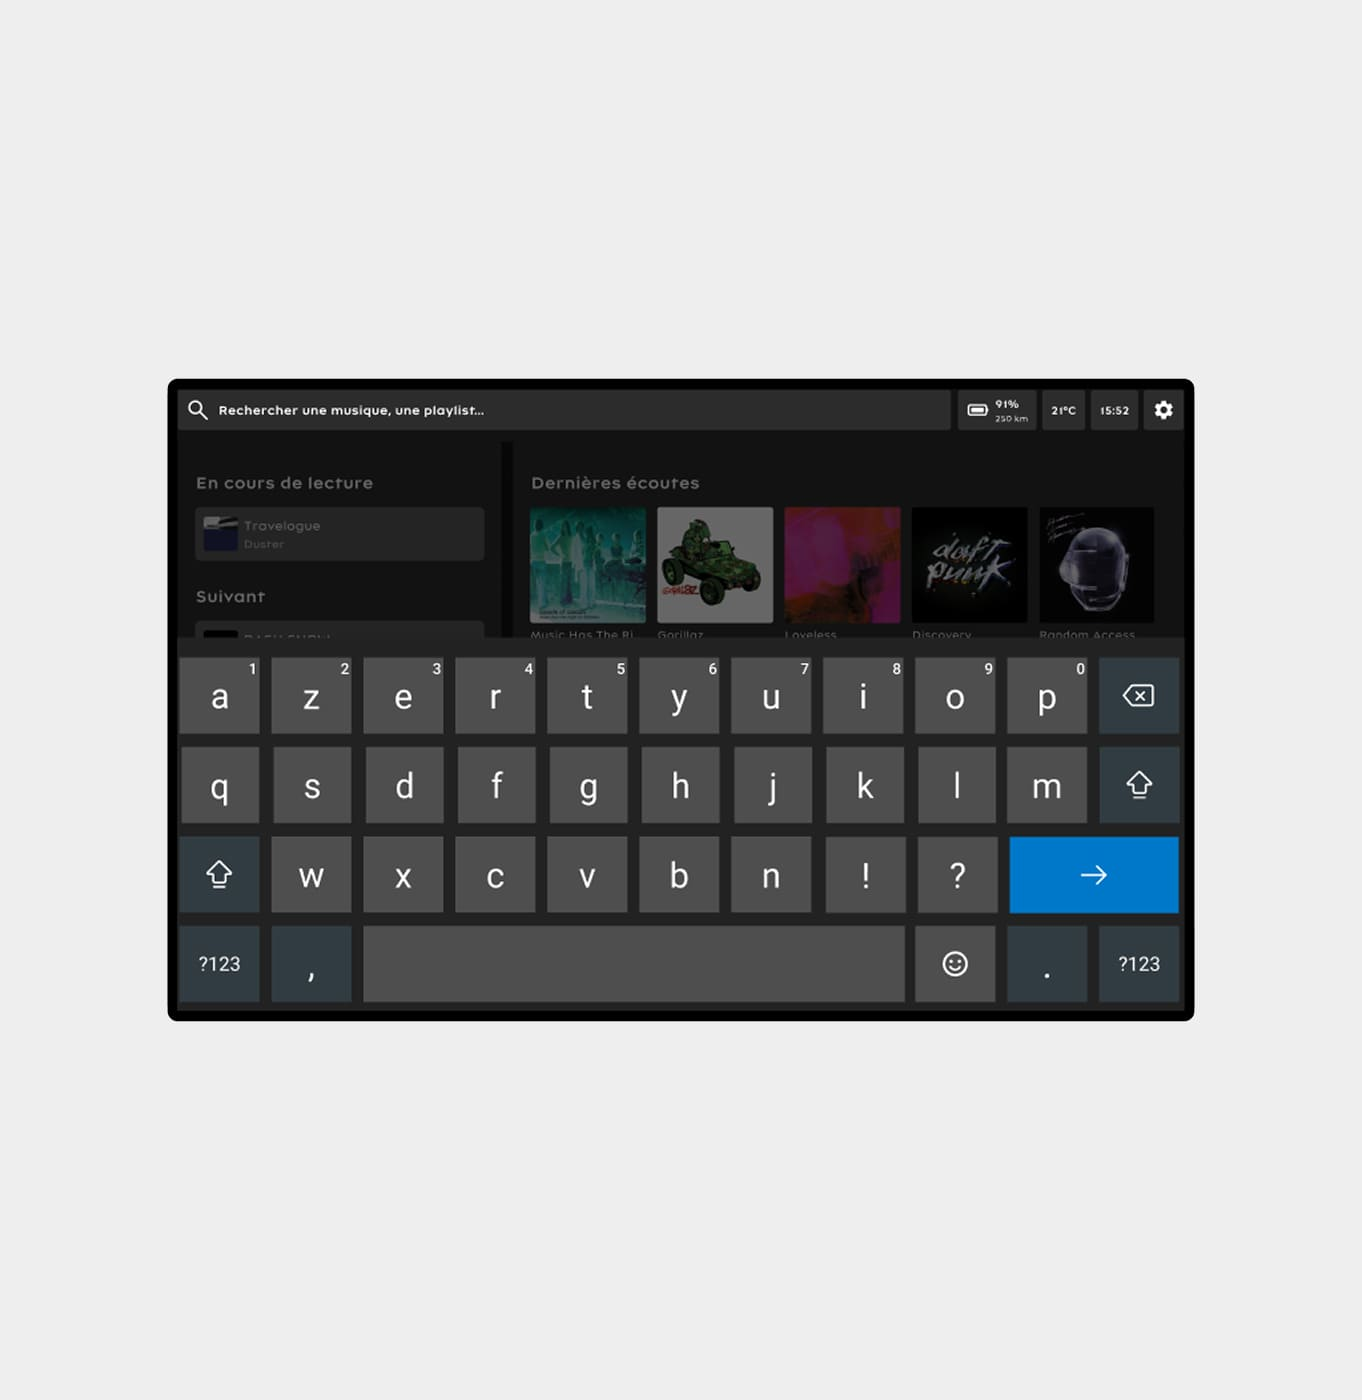
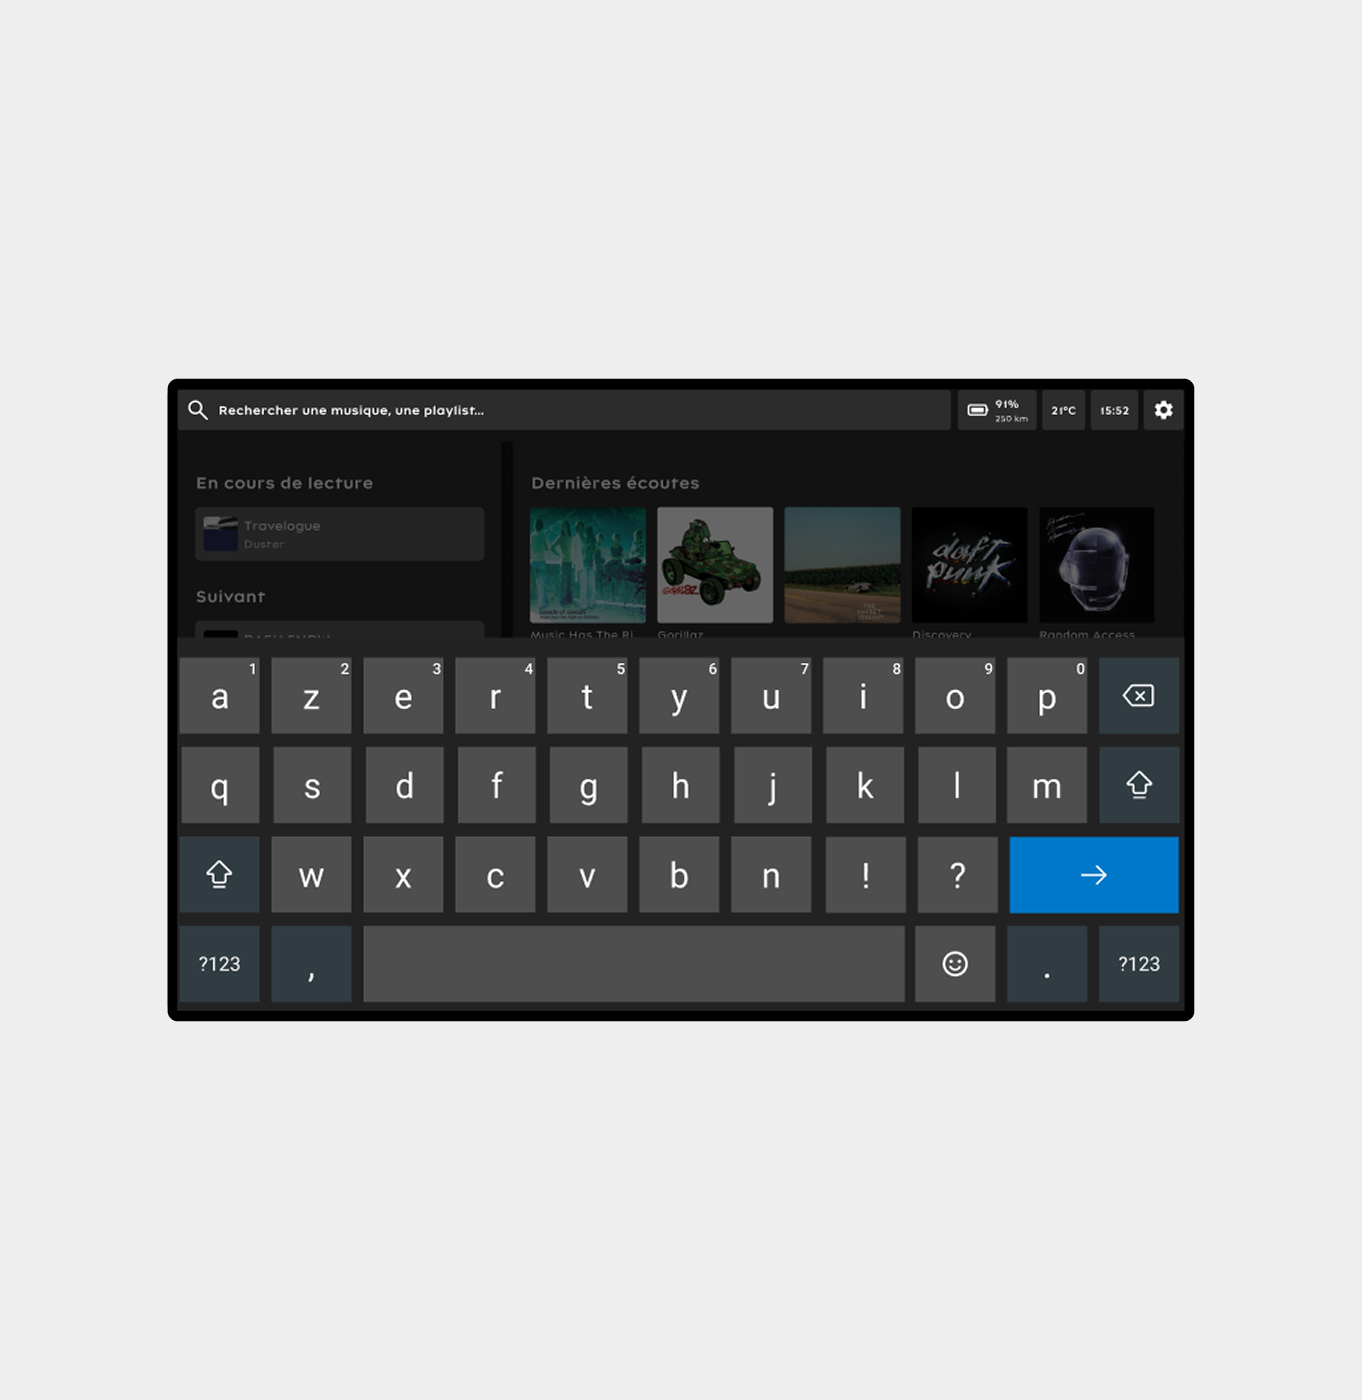
alpine: fix img talkie: img pour locale EN

Changed region(s): [[0.5551, 0.3379, 0.6784, 0.4607]]

diff --git a/src/views/Talkie.vue b/src/views/Talkie.vue
@@ -42,16 +42,21 @@ import projectBackground from '@/assets/talkie/banner.jpg?optimized'
 import contexte from '@/assets/talkie/contexte.jpg?optimized'
 import flows from '@/assets/talkie/flows.jpg?optimized'
 import flowsMobile from '@/assets/talkie/mobile-flows.jpg?optimized'
-import designsystem from '@/assets/talkie/designsystem.jpg?optimized'
+import designsystemFr from '@/assets/talkie/designsystem.jpg?optimized'
+import designsystemEn from '@/assets/talkie/designsystem-EN.jpg?optimized'
 import apprentissage from '@/assets/talkie/apprentissage.jpg?optimized&w=1920;2560;3200&quality=96&lossless=true'
 import quiz from '@/assets/talkie/quiz.jpg?optimized&w=1920;2560;3200&quality=96&lossless=true'
 import duels from '@/assets/talkie/duels.jpg?optimized&w=1920;2560;3200&quality=96&lossless=true'
-import tests from '@/assets/talkie/tests.jpg?optimized'
+import testsFr from '@/assets/talkie/tests.jpg?optimized'
+import testsEn from '@/assets/talkie/tests-EN.jpg?optimized'
 
-import persona from '@/assets/talkie/per.jpg?optimized'
-import entretiens from '@/assets/talkie/entr.jpg?optimized'
+import personaFr from '@/assets/talkie/per.jpg?optimized'
+import personaEn from '@/assets/talkie/per-EN.jpg?optimized'
+import entretiensFr from '@/assets/talkie/entr.jpg?optimized'
+import entretiensEn from '@/assets/talkie/entr-EN.jpg?optimized'
 import entretiensMobile from '@/assets/talkie/mobile-entr.jpg?optimized'
-import fonctions from '@/assets/talkie/fonctions.jpg?optimized'
+import fonctionsFr from '@/assets/talkie/fonctions.jpg?optimized'
+import fonctionsEn from '@/assets/talkie/fonctions-EN.jpg?optimized'
 import fonctionsMobile from '@/assets/talkie/mobile-fonctions.jpg?optimized'
 
 const PROJECT_ROUTE = '/projet/talkie'
@@ -156,6 +161,8 @@ What changed: clarified initial quiz screen, redesigned end-of-game summary, and
 
 const pageContent = computed(() => PAGE_CONTENT[locale.value] ?? PAGE_CONTENT.fr)
 const projectData = computed(() => getWorksByLocale(locale.value).find((work) => work.route === PROJECT_ROUTE) || null)
+const isEnglishLocale = computed(() => locale.value === 'en')
+const localizedImage = (frImage, enImage) => (isEnglishLocale.value ? enImage ?? frImage : frImage)
 
 if (!projectData.value) {
   console.error(`Project data not found for route "${PROJECT_ROUTE}"`)
@@ -168,10 +175,21 @@ const uiGridImages = computed(() => [
 ])
 
 const rechercheUX = computed(() => [
-  { src: persona, alt: "Persona" },
-  { src: entretiens, mobileSrc: entretiensMobile, alt: pageContent.value.uxAlt2 },
-  { src: fonctions, mobileSrc: fonctionsMobile, alt: pageContent.value.uxAlt3 }
+  { src: localizedImage(personaFr, personaEn), alt: "Persona" },
+  {
+    src: localizedImage(entretiensFr, entretiensEn),
+    mobileSrc: entretiensMobile,
+    alt: pageContent.value.uxAlt2
+  },
+  {
+    src: localizedImage(fonctionsFr, fonctionsEn),
+    mobileSrc: fonctionsMobile,
+    alt: pageContent.value.uxAlt3
+  }
 ])
+
+const designsystem = computed(() => localizedImage(designsystemFr, designsystemEn))
+const tests = computed(() => localizedImage(testsFr, testsEn))
 
 const hasProject = computed(() => Boolean(projectData.value))
 const projectLabel = computed(() =>